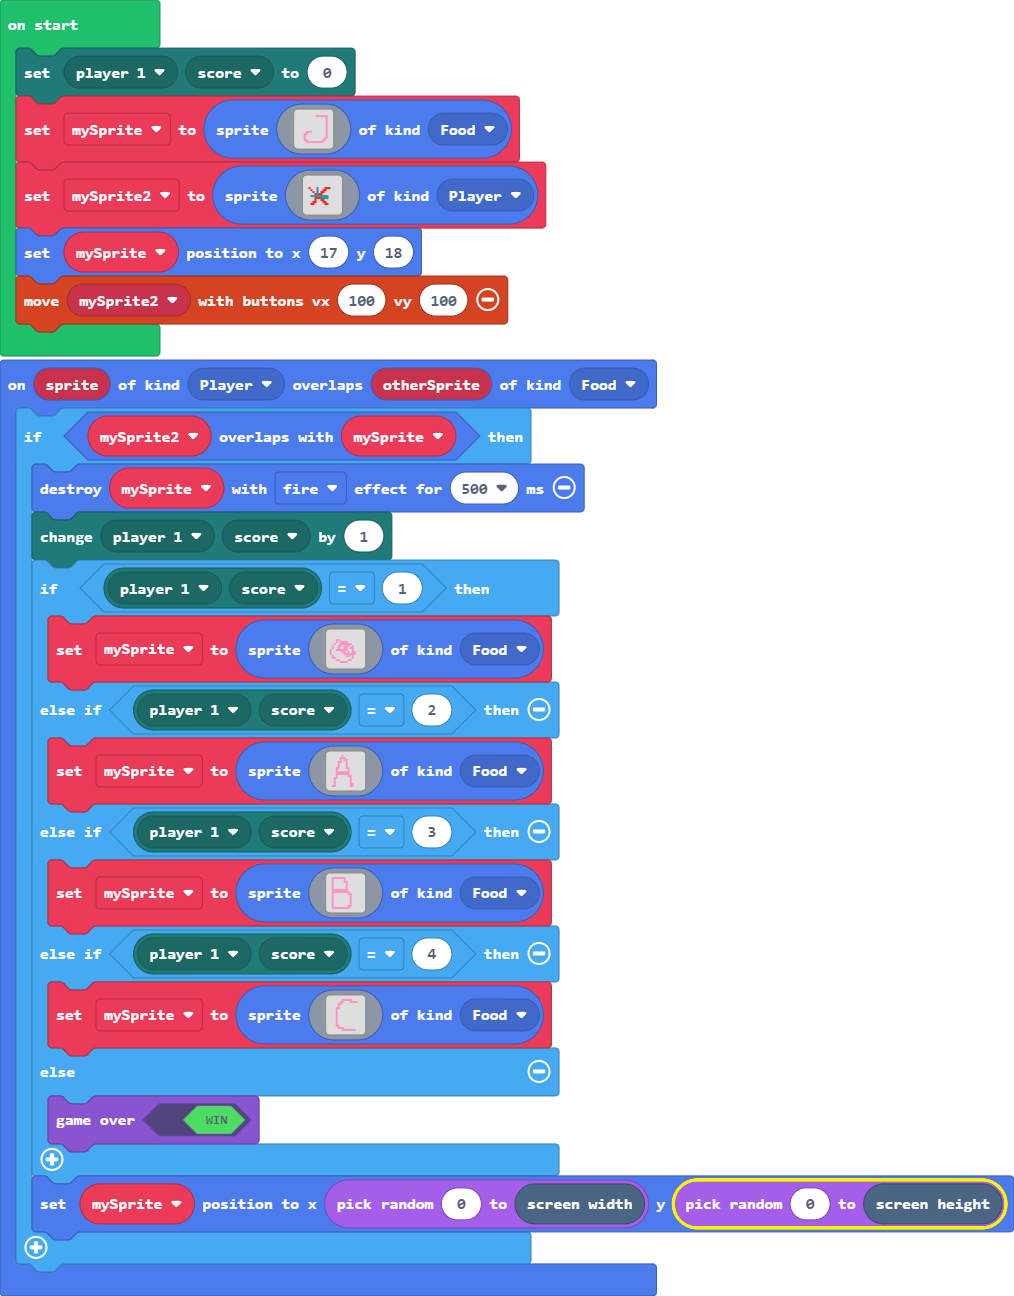
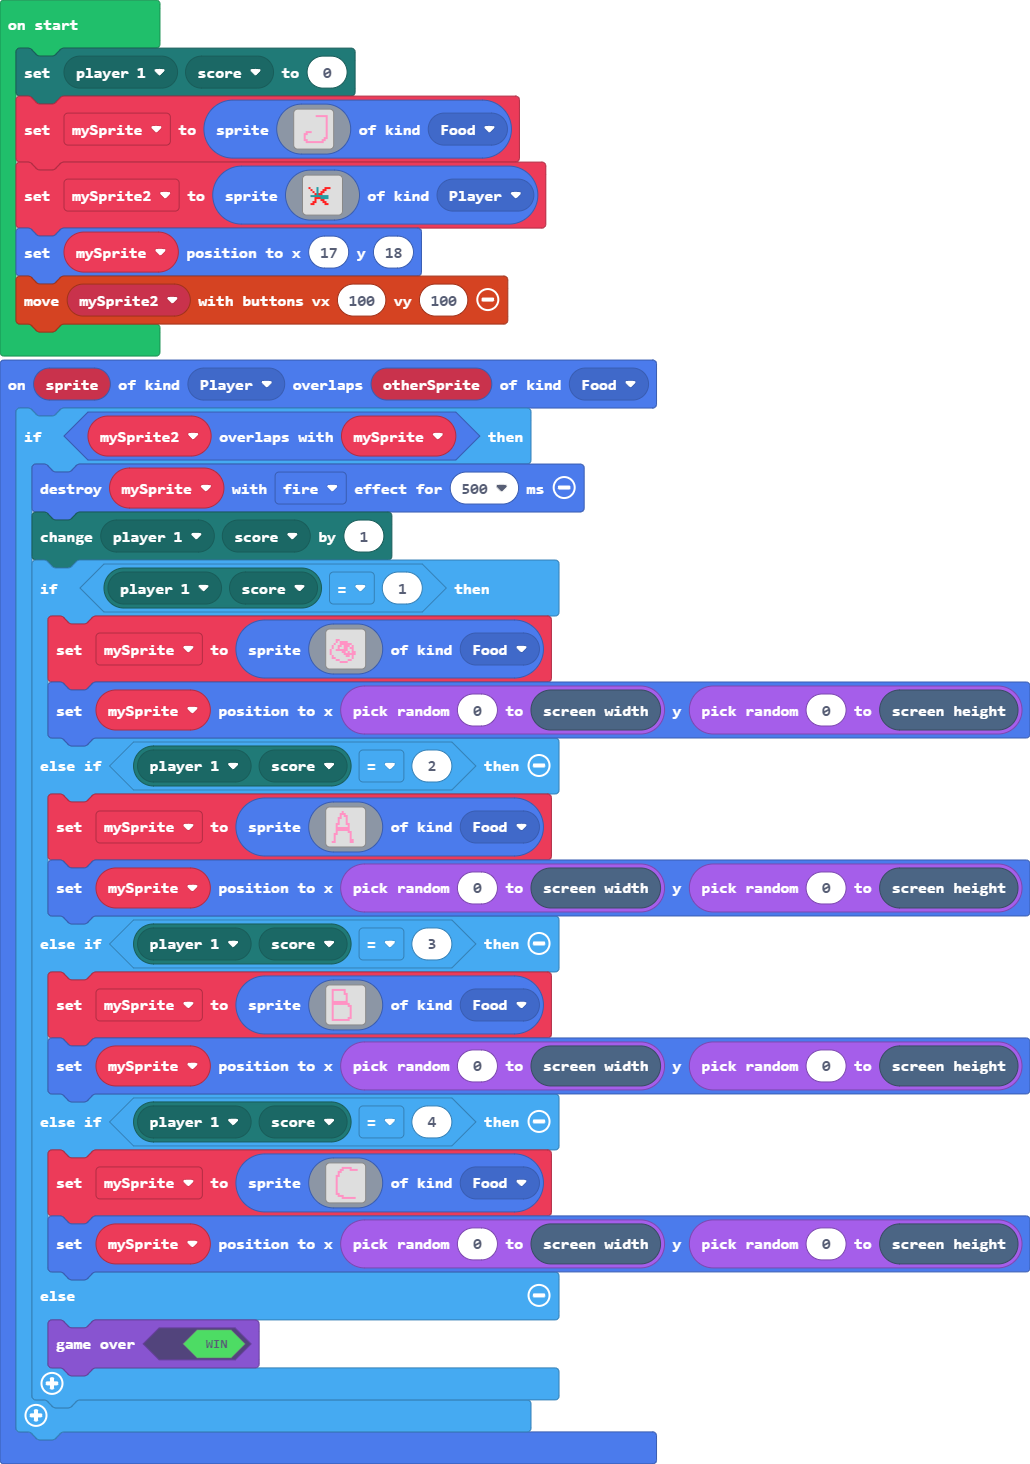
Update main.blocks, main.ts

diff --git a/main.ts b/main.ts
@@ -4,16 +4,19 @@ sprites.onOverlap(SpriteKind.Player, SpriteKind.Food, function (sprite, otherSpr
         mp.changePlayerStateBy(mp.playerSelector(mp.PlayerNumber.One), MultiplayerState.score, 1)
         if (mp.getPlayerState(mp.playerSelector(mp.PlayerNumber.One), MultiplayerState.score) == 1) {
             mySprite = sprites.create(assets.image`myImage4`, SpriteKind.Food)
+            mySprite.setPosition(randint(0, scene.screenWidth()), randint(0, scene.screenHeight()))
         } else if (mp.getPlayerState(mp.playerSelector(mp.PlayerNumber.One), MultiplayerState.score) == 2) {
             mySprite = sprites.create(assets.image`myImage`, SpriteKind.Food)
+            mySprite.setPosition(randint(0, scene.screenWidth()), randint(0, scene.screenHeight()))
         } else if (mp.getPlayerState(mp.playerSelector(mp.PlayerNumber.One), MultiplayerState.score) == 3) {
             mySprite = sprites.create(assets.image`myImage0`, SpriteKind.Food)
+            mySprite.setPosition(randint(0, scene.screenWidth()), randint(0, scene.screenHeight()))
         } else if (mp.getPlayerState(mp.playerSelector(mp.PlayerNumber.One), MultiplayerState.score) == 4) {
             mySprite = sprites.create(assets.image`myImage1`, SpriteKind.Food)
+            mySprite.setPosition(randint(0, scene.screenWidth()), randint(0, scene.screenHeight()))
         } else {
             game.gameOver(true)
         }
-        mySprite.setPosition(randint(0, scene.screenWidth()), randint(0, scene.screenHeight()))
     }
 })
 let mySprite2: Sprite = null
